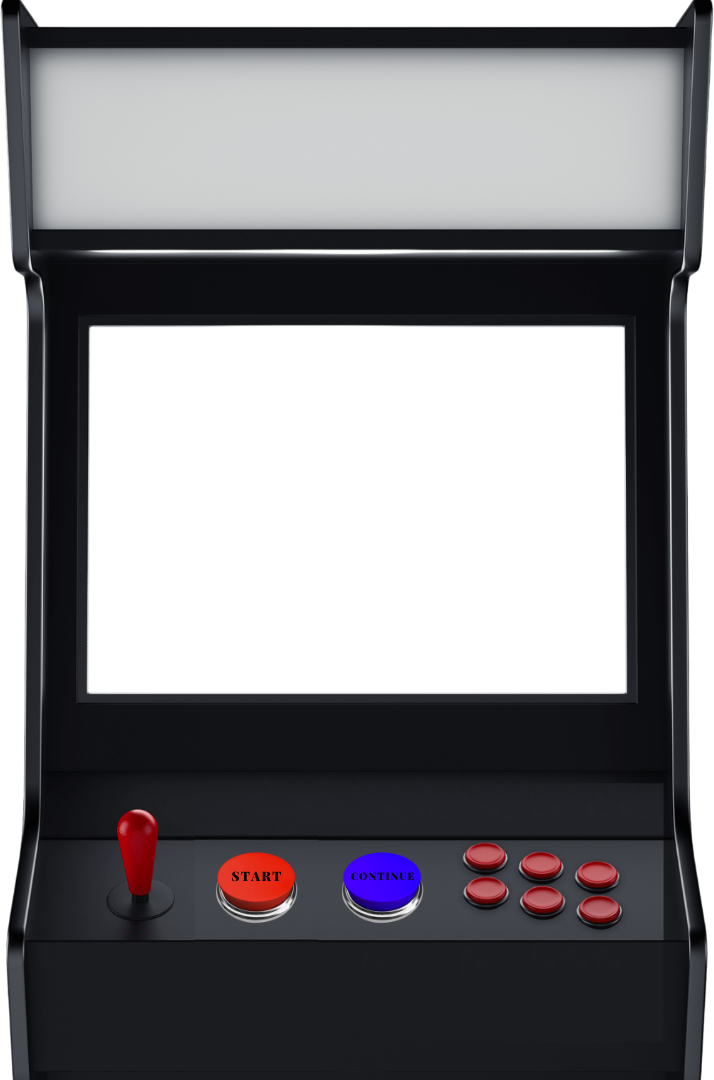
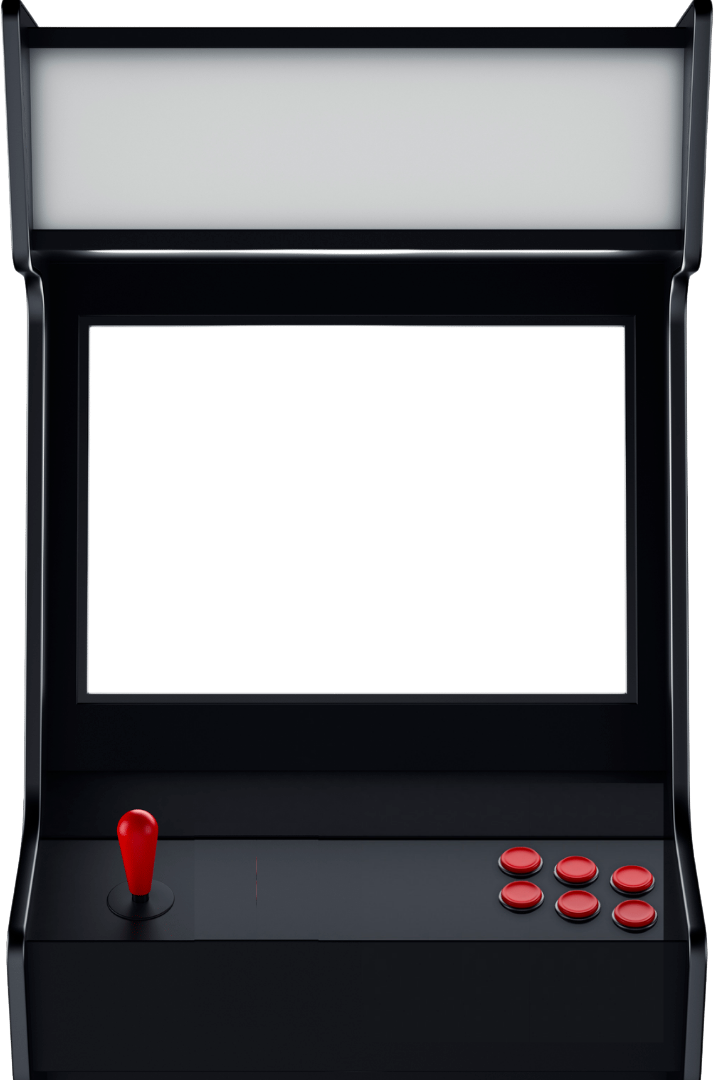
added start button

diff --git a/css/styles.css b/css/styles.css
@@ -23,6 +23,21 @@ body {
     background-repeat: no-repeat;
 }
 
+.game-buttons {
+    position: relative;
+    height: 100px;
+    width: 250px;
+    margin: 0 auto;
+    bottom: 5%;
+    -webkit-touch-callout: none; /* iOS Safari */
+    -webkit-user-select: none; /* Safari */
+     -khtml-user-select: none; /* Konqueror HTML */
+       -moz-user-select: none; /* Old versions of Firefox */
+        -ms-user-select: none; /* Internet Explorer/Edge */
+            user-select: none; /* Non-prefixed version, currently
+                                  supported by Chrome, Edge, Opera and Firefox */
+}
+
 .game-title {
     position: relative;
     text-align: center;
@@ -140,4 +155,42 @@ body {
     border-collapse: collapse;
     position: absolute;
     overflow: hidden;
+}
+
+a.button{
+    display:inline-block;
+    padding:1.5em 0.5em;
+    margin: 0 auto;
+    border-radius:15em;
+    box-sizing: border-box;
+    text-decoration:none;
+    text-transform:uppercase;
+    font-weight:400;
+    color:#FFFFFF;
+    top: 0.5em;
+    background-color:#3369ff;
+    box-shadow:inset 0 -0.6em 0 -0.35em rgba(0,0,0,0.17);
+    text-align:center;
+    position:absolute;
+}
+
+a.button:active{
+    top:0.6em;
+}
+
+@media all and (max-width:30em){
+    a.button{
+        display:inline-block;
+        margin:0.4em auto;
+    }
+}
+
+#start {
+    float: left;
+}
+
+#continue {
+    position: relative;
+    float: right;
+    left: -50px;
 }

diff --git a/script/main.js b/script/main.js
@@ -1,3 +1,5 @@
+var gameIsOn = false;
+
 const stages = [{
         level: 1,
         enemyRate: [3000, 5000], //1 new enemy between 3 and 5 seconds (random)
@@ -91,11 +93,28 @@ function CodeSniper() {
         self.player.reload()
         //Create timer to introduce new enemies.
         self.enemyAppear();
+
+        window.addEventListener('click', e => {
+            if (e.target.getAttribute('id') == 'stage' || e.target.getAttribute('class') == 'enemy') {
+                this.player.shot(e.target);
+            }
+        })
+    
+        window.addEventListener('keydown', e => {
+            if (e.key == 'r') {
+               this.player.reload();
+            }
+        })
     }
 }
 
 let sniper = new CodeSniper();
-sniper.start();
+
+window.addEventListener('click', e => {
+    if (e.target.getAttribute('id') === 'start') {
+        if (gameIsOn === false) {sniper.start(); gameIsOn=true;}
+    }
+})
 
 
 

diff --git a/index.html b/index.html
@@ -16,10 +16,10 @@
 </head>
 <body>
     <section class="game-wrapper">
-        <div class="game-title">
+        <article class="game-title">
             <h1>< REBOOT codesniper /></h1>
-        </div>
-        <div class="game-screen" id="screen">
+        </article>
+        <article class="game-screen" id="screen">
             <div class="stage" id="stage">
             <div id="indicators">
                 <div id="lives"></div>
@@ -29,9 +29,12 @@
                 
             </div>
             
-        </div>
+        </article>
+        <article class="game-buttons">
+            <a class="button" id="start">Start</a>
+            <a class="button" id="continue" style="background-color:#668fff">Continue</a>
+        </article>
     </section>
-    
     <!-- Import JavaScript script -->
     <script src="script/player.js"></script>
     <script src="script/enemy.js"></script>

diff --git a/script/player.js b/script/player.js
@@ -79,17 +79,4 @@ function Player() {
             }
     }
 
-    window.addEventListener('click', e => {
-        if (e.target.getAttribute('id') == 'stage' || e.target.getAttribute('class') == 'enemy') {
-            this.shot(e.target);
-        }
-    })
-
-    window.addEventListener('keydown', e => {
-        if (e.key == 'r') {
-           this.reload();
-        }
-    })
-
 }
-
